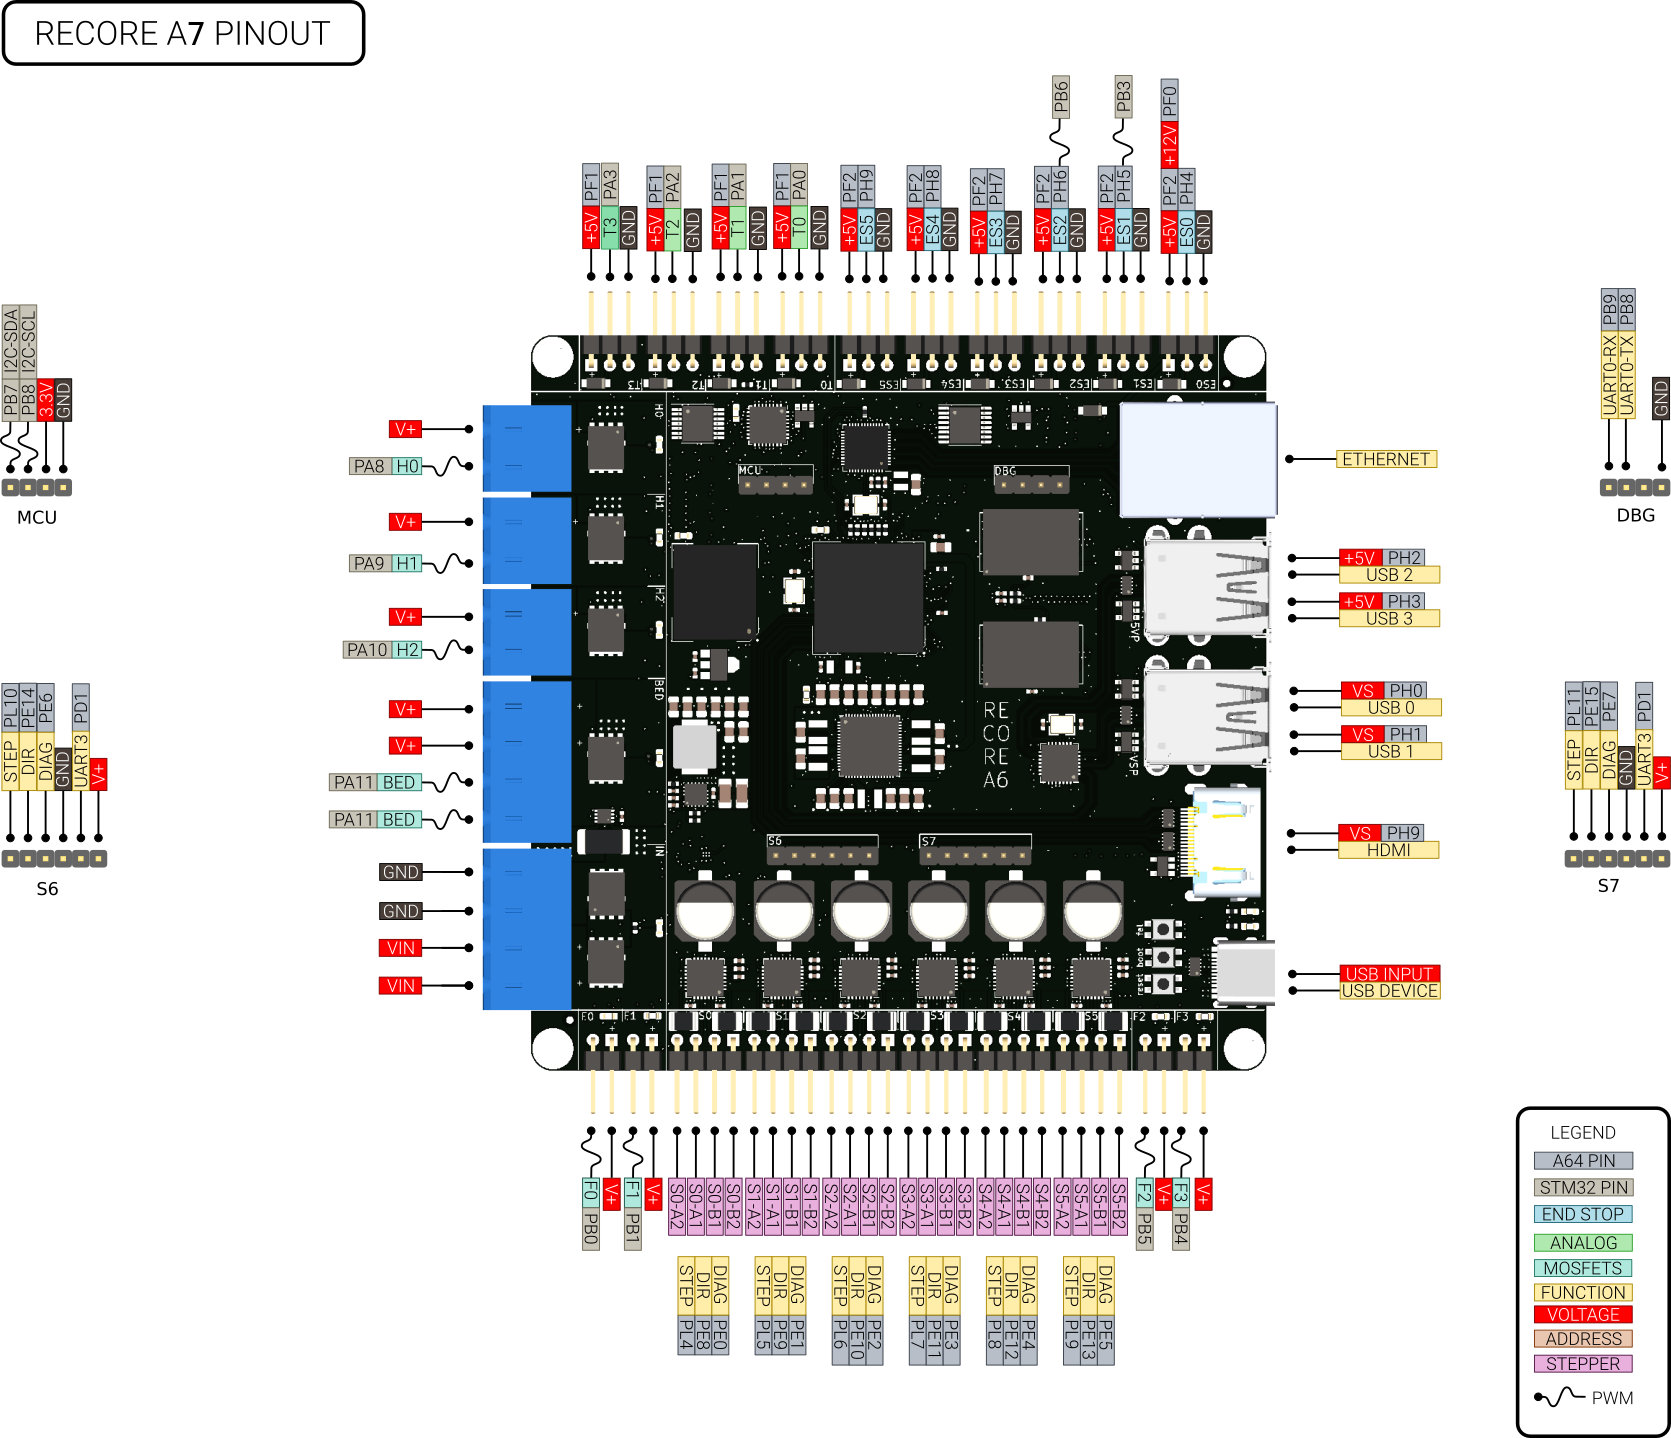
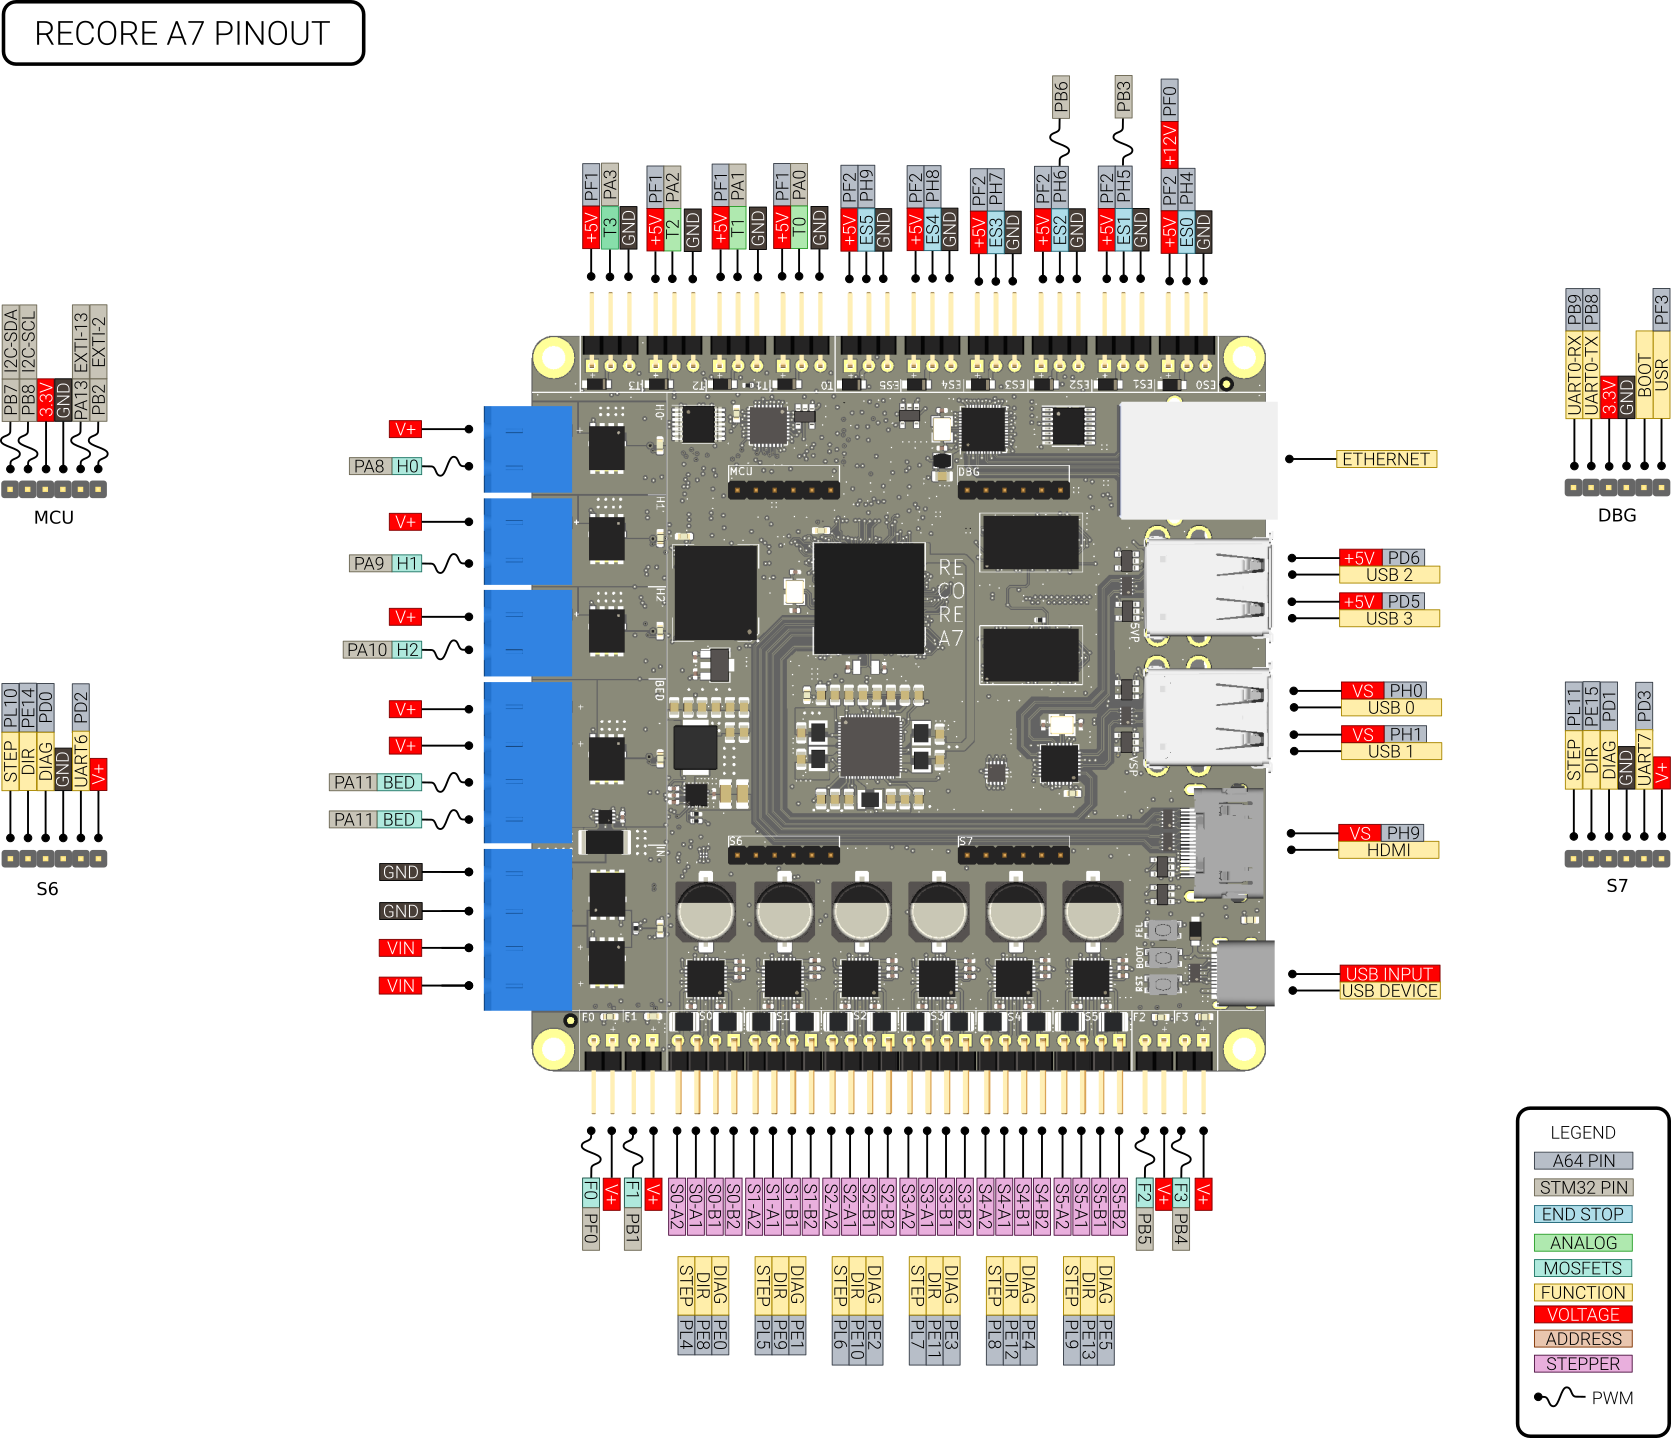
Fixed A7 board pin map.

Changed region(s): [[0.2801, 0.2142, 0.778, 0.765], [0.9336, 0.1836, 1.0, 0.3672], [0.0, 0.2142, 0.0622, 0.3672]]

diff --git a/Recore_pin_maps.py b/Recore_pin_maps.py
@@ -100,9 +100,45 @@ class RecoreA6PinMaps:
 
 class RecoreA7PinMaps:
     def __init__(self):
-        print("WARNING: The A7 pin maps have not yet been implemented as the board design is not yet finalized.")
-        print("Therefore the pin assignment used will be for an A6 revision board.")
+        self.fan_pin_map = {"F0": "PF0", "F1": "PB1", "F2": "PB5", "F3": "PB4"}
+
+        # Create a map of onboard stepper control pins
+        self.step_pin_map = {"S0": "ar100:PL4", "S1": "ar100:PL5", "S2": "ar100:PL6", "S3": "ar100:PL7",
+                             "S4": "ar100:PL8", "S5": "ar100:PL9",
+                             "S6": "ar100:PL10", "S7": "ar100:PL11"}
+        self.dir_pin_map = {"S0": "ar100:PE8", "S1": "ar100:PE9", "S2": "ar100:PE10", "S3": "ar100:PE11",
+                            "S4": "ar100:PE12", "S5": "ar100:PE13",
+                            "S6": "ar100:PE14", "S7": "ar100:PE15"}
+        self.diag_pin_map = {"S0": "ar100:PE0", "S1": "ar100:PE1", "S2": "arPB0100:PE2", "S3": "ar100:PE3",
+                             "S4": "ar100:PE4", "S5": "ar100:PE5",
+                             "S6": "ar100:PD0", "S7": "ar100:PD1"}
+        self.uart_pin_map = {"S0": "ar100:PE16", "S1": "ar100:PE16", "S2": "ar100:PE16", "S3": "ar100:PE16",
+                             "S4": "ar100:PE16", "S5": "ar100:PE16",
+                             "S6": "ar100:PD2", "S7": "ar100:PD3"}
+        self.tx_pin_map = {}
+
+        self.uart_address = {"S0": "0", "S1": "1", "S2": "2", "S3": "3", "S4": "0", "S5": "1", "S6": "0", "S7": "0"}
+
+        # create a map of mosfet control pins
+        self.heater_pin_map = {"H0": "PA8", "H1": "PA9", "H2": "PA10", "BED": "PA11"}
+
+        # create a map of the temperature sensor pins
+        self.temp_sensor_pin_map = {"T0": "PA0", "T1": "PA1", "T2": "PA2", "T3": "PA3"}
+
+        # create a map of the endstop pins
+        self.endstop_pin_map = {"ES0": "ar100:PH4", "ES1": "ar100:PH5", "ES2": "ar100:PH6", "ES3": "ar100:PH7",
+                                "ES4": "ar100:PH8",
+                                "ES5": "ar100:PH9"}
+
+        # create a map of PWM pins
+        self.pwm_pin_map = {"ES1": "PB3", "ES2": "PB6"}
+
+        # create the map for the selection of 5 or 12V voltage on ES0
+        self.es0_5v_12v_pin_map = {"ES0_5V": "PF2", "ES0_12V": "PF0"}
+
+
 
     def get_maps(self):
-        maps = RecoreA6PinMaps()
-        return maps.get_maps()
+        return[]
+
+

diff --git a/Stepper.py b/Stepper.py
@@ -172,7 +172,8 @@ class StepperConfig:
 
         self.driver_options.add_setting("uart_pin", self.pin_map.uart_pin_map.get(stepper_connector))
         self.driver_options.add_setting("uart_address", self.pin_map.uart_address.get(stepper_connector))
-        self.driver_options.add_setting("tx_pin", self.pin_map.tx_pin_map.get(stepper_connector))
+        if len(self.pin_map.tx_pin_map) > 0:
+            self.driver_options.add_setting("tx_pin", self.pin_map.tx_pin_map.get(stepper_connector))
         self.driver_options.add_setting("%s" % RUN_CURRENT, run_current)
         self.driver_options.add_setting("%s" % STEALTHCHOP_THRESHOLD, stealthchop_threshold)
 
@@ -183,7 +184,8 @@ class StepperConfig:
         self.pin_map.dir_pin_map.pop(stepper_connector, None)
         self.pin_map.endstop_pin_map.pop(endstop_connector, None)
         self.pin_map.uart_address.pop(stepper_connector, None)
-        self.pin_map.tx_pin_map.pop(stepper_connector, None)
+        if len(self.pin_map.tx_pin_map) > 0:
+            self.pin_map.tx_pin_map.pop(stepper_connector, None)
 
         self.parent.window.destroy()
         if another:
